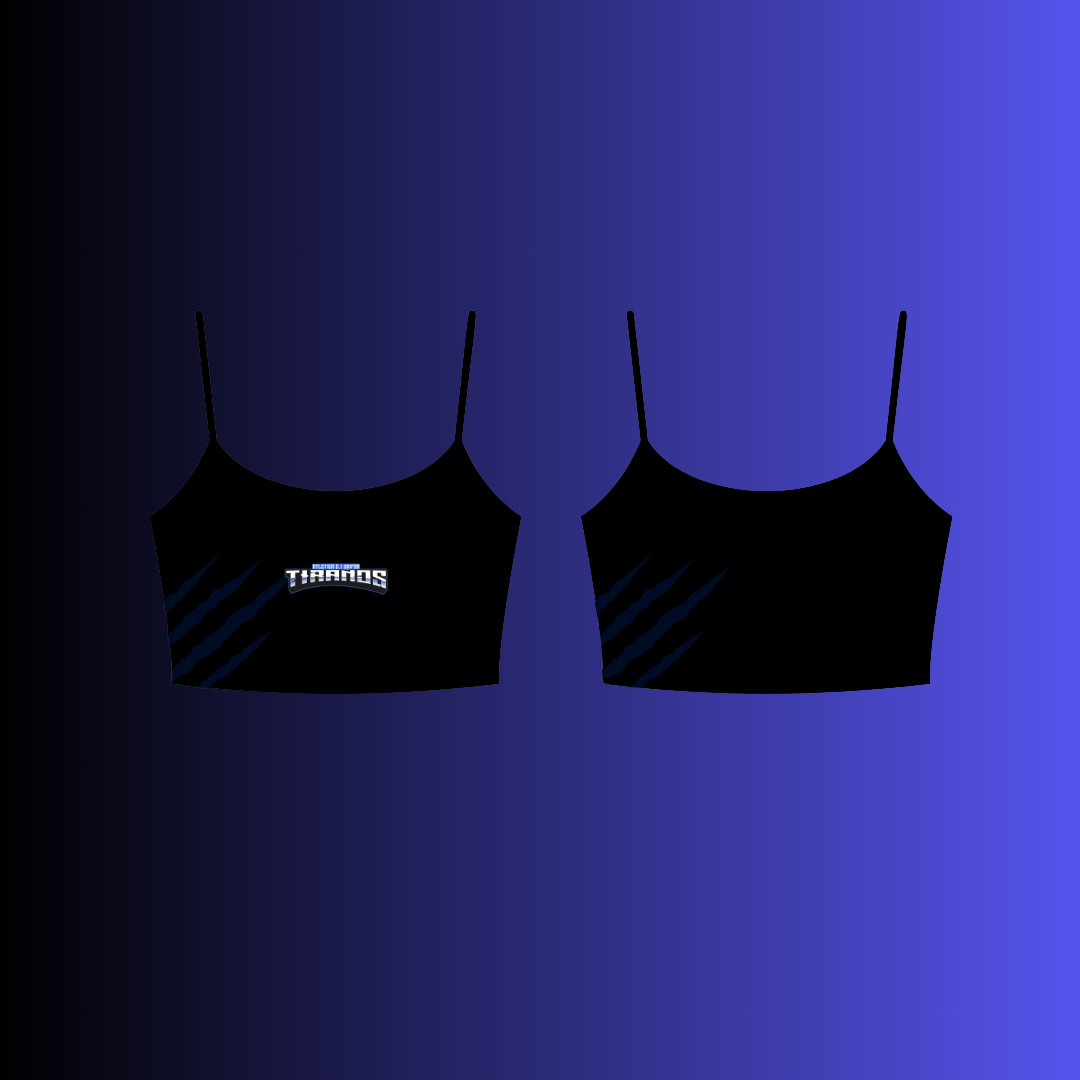
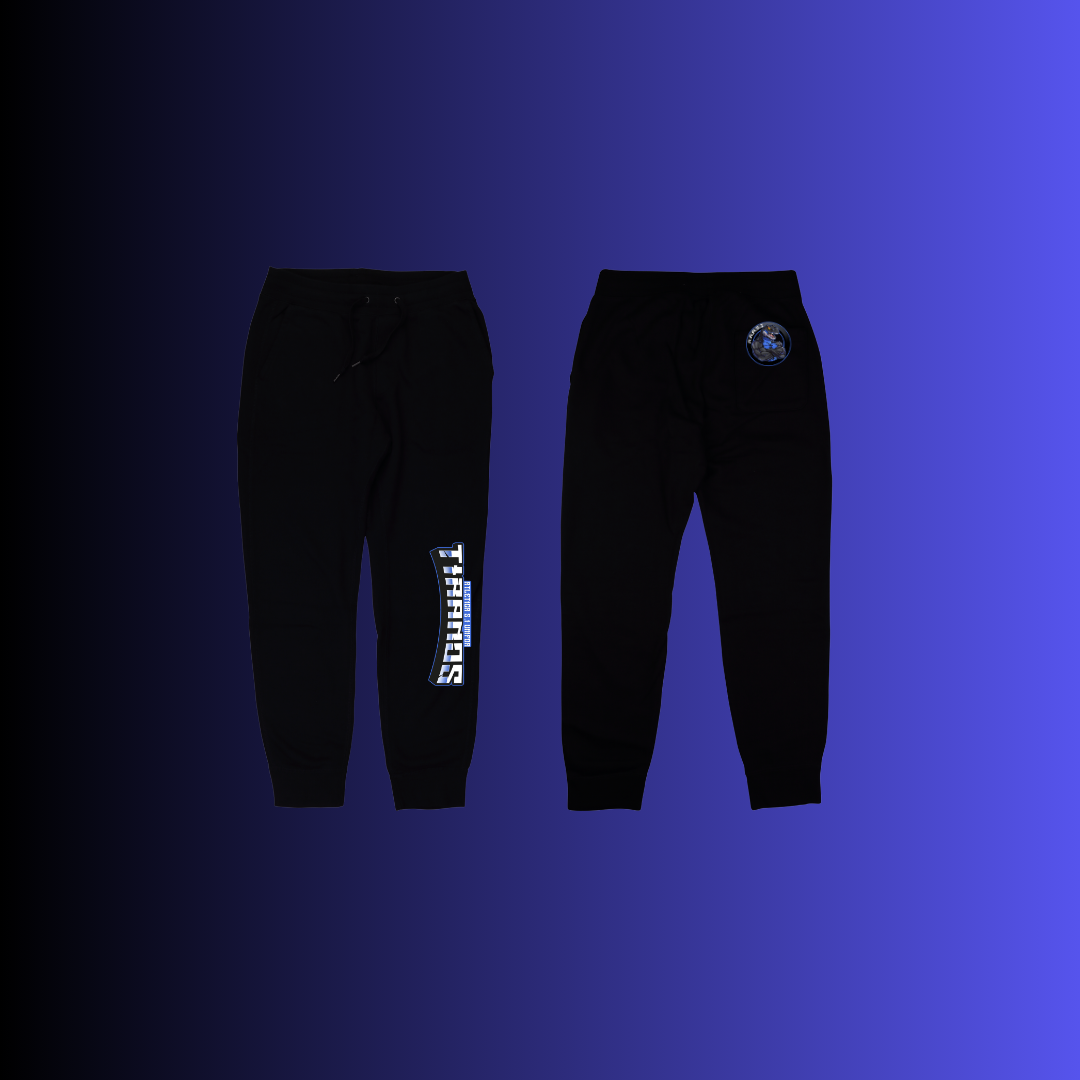
corrigindo produtos

Changed region(s): [[0.5194, 0.2444, 0.8861, 0.7639], [0.1222, 0.2444, 0.4889, 0.7639]]

diff --git a/app/produtos/page.tsx b/app/produtos/page.tsx
@@ -57,7 +57,7 @@ const produtos: Produto[] = [
     destaque: true,
   },
   {
-    id: 5,
+     id: 6,
     nome: "Calça Tiranos",
     preco: 119.9,
     imagem: "/calca.png",
@@ -65,10 +65,10 @@ const produtos: Produto[] = [
     categoria: "Vestuário",
   },
   {
-    id: 6,
-    nome: "Top Feminino Tiranos - Preto",
+   id: 5,
+    nome: "Top Tiranos - Preto",
     preco: 69.9,
-    imagem: "/top-fem.png",
+    imagem: "/top.png",
     descricao: "Top feminino esportivo da Atlética SI - FOA.",
     categoria: "Vestuário",
   }
